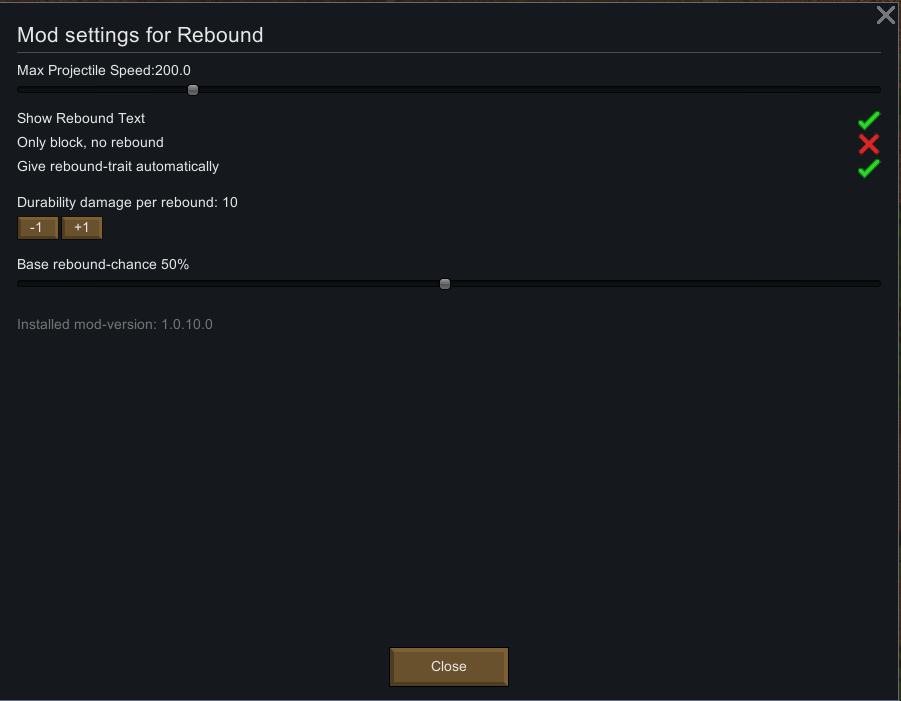
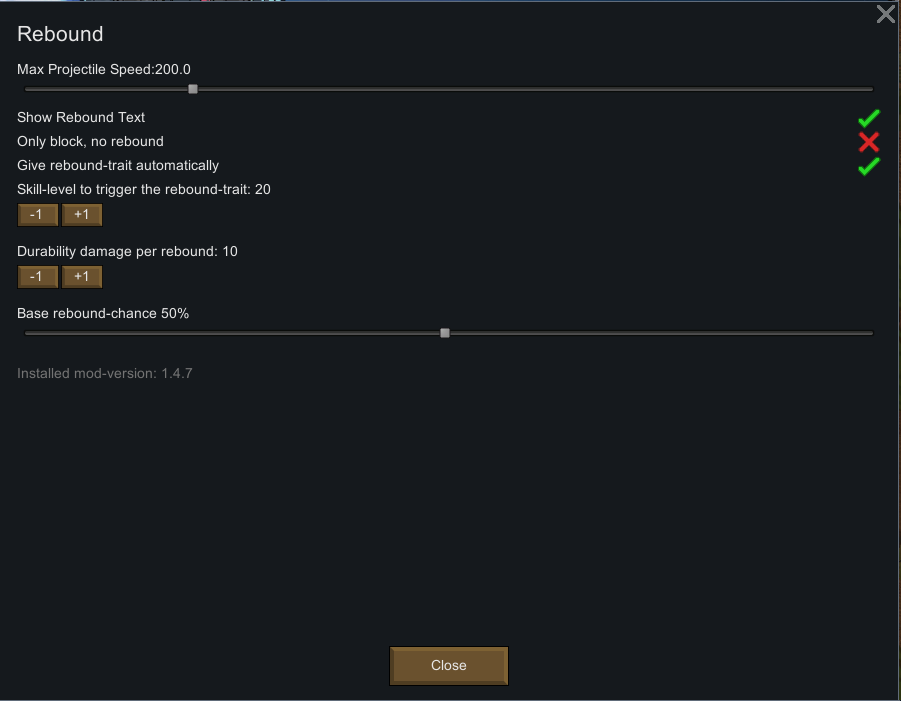
Added setting to use higher than 100% manipulation skill in calculations Used DeepL to update translations for ChineseSimplified, French, German, Russian

diff --git a/Source/ProjectileInversion/Settings.cs b/Source/ProjectileInversion/Settings.cs
@@ -15,6 +15,7 @@ public class Settings : ModSettings
     public static int weaponDamage = 1;
     public static int levelToTrigger = 20;
     public static float baseChance = 0.5f;
+    public static bool uncapManipulation;
 
     public static void DoSettingsWindowContents(Rect rect)
     {
@@ -29,6 +30,9 @@ public class Settings : ModSettings
             "ProjectileInversionSettingNoReboundDesc".Translate());
         listing_Standard.CheckboxLabeled("ProjectileInversionSettingAutoTraitLabel".Translate(), ref addTrait,
             "ProjectileInversionSettingAutoTraitDesc".Translate());
+        listing_Standard.CheckboxLabeled("ProjectileInversionSettingUncapManipulationLabel".Translate(),
+            ref uncapManipulation,
+            "ProjectileInversionSettingUncapManipulationDesc".Translate());
         listing_Standard.Label("ProjectileInversionSettingLevelToTriggerLabel".Translate(levelToTrigger), -1f,
             "ProjectileInversionSettingLevelToTriggerDesc".Translate());
         listing_Standard.IntAdjuster(ref levelToTrigger, 1, 1);
@@ -61,6 +65,7 @@ public class Settings : ModSettings
         Scribe_Values.Look(ref showText, "PIShowText", true);
         Scribe_Values.Look(ref addTrait, "PIAddTrait", true);
         Scribe_Values.Look(ref noRebound, "PINoRebound");
+        Scribe_Values.Look(ref uncapManipulation, "uncapManipulation");
         Scribe_Values.Look(ref weaponDamage, "PIWeaponDamage", 1);
         Scribe_Values.Look(ref baseChance, "PIBaseChance", 0.5f);
     }

diff --git a/Source/ProjectileInversion/API.cs b/Source/ProjectileInversion/API.cs
@@ -72,7 +72,7 @@ public static class API
 
         var num = (float)pawn.skills.GetSkill(SkillDefOf.Melee).levelInt;
         var num2 = pawn.health.capacities.GetLevel(PawnCapacityDefOf.Manipulation);
-        if (num2 > 1f)
+        if (num2 > 1f && !Settings.uncapManipulation)
         {
             num2 = 1f;
         }

diff --git a/README.md b/README.md
@@ -23,9 +23,25 @@ A brief explanation of the mod as I understand it:
 - Added settings for the weapon-damage and base rebound-chance
 - Added CE-support
 - Any trait can be a rebound-trait by adding a mod-extension to it
+- Added setting to change the level where the trait is learned. Supports mods that increases the max-level of skills.
 
 ![Image](https://i.imgur.com/pufA0kM.png)
 
+
+[table]
+	[tr]
+		[td]https://dsc.gg/mlie]![Image](https://i.imgur.com/zdzzBrc.png)
+[/td]
+		[td]https://github.com/emipa606/Rebound]![Image](https://i.imgur.com/kTkpTOE.png)
+[/td]
+    [/tr]
+    [tr]
+        [td]![Image](https://i.imgur.com/WjDSfUn.png)
+[/td]
+        [td]![Image](https://i.imgur.com/Be8E2qJ.png)
+[/td]
+    [/tr]
+[/table]
 	
 ![Image](https://i.imgur.com/Z4GOv8H.png)
 
@@ -54,10 +70,12 @@ Weapons are automatically thrown to the ground when they reach 1
 
 -  See if the the error persists if you just have this mod and its requirements active.
 -  If not, try adding your other mods until it happens again.
--  Post your error-log using https://steamcommunity.com/workshop/filedetails/?id=818773962]HugsLib and command Ctrl+F12
+-  Post your error-log using https://steamcommunity.com/workshop/filedetails/?id=818773962]HugsLib or the standalone https://steamcommunity.com/sharedfiles/filedetails/?id=2873415404]Uploader and command Ctrl+F12
 -  For best support, please use the Discord-channel for error-reporting.
 -  Do not report errors by making a discussion-thread, I get no notification of that.
 -  If you have the solution for a problem, please post it to the GitHub repository.
 
 
-https://steamcommunity.com/sharedfiles/filedetails/changelog/2068326756]Last updated 2023-07-09
+
+https://steamcommunity.com/sharedfiles/filedetails/changelog/2068326756]![Image](https://img.shields.io/github/v/release/emipa606/Rebound?label=latest%20version&style=plastic&color=9f1111&labelColor=black)
+
